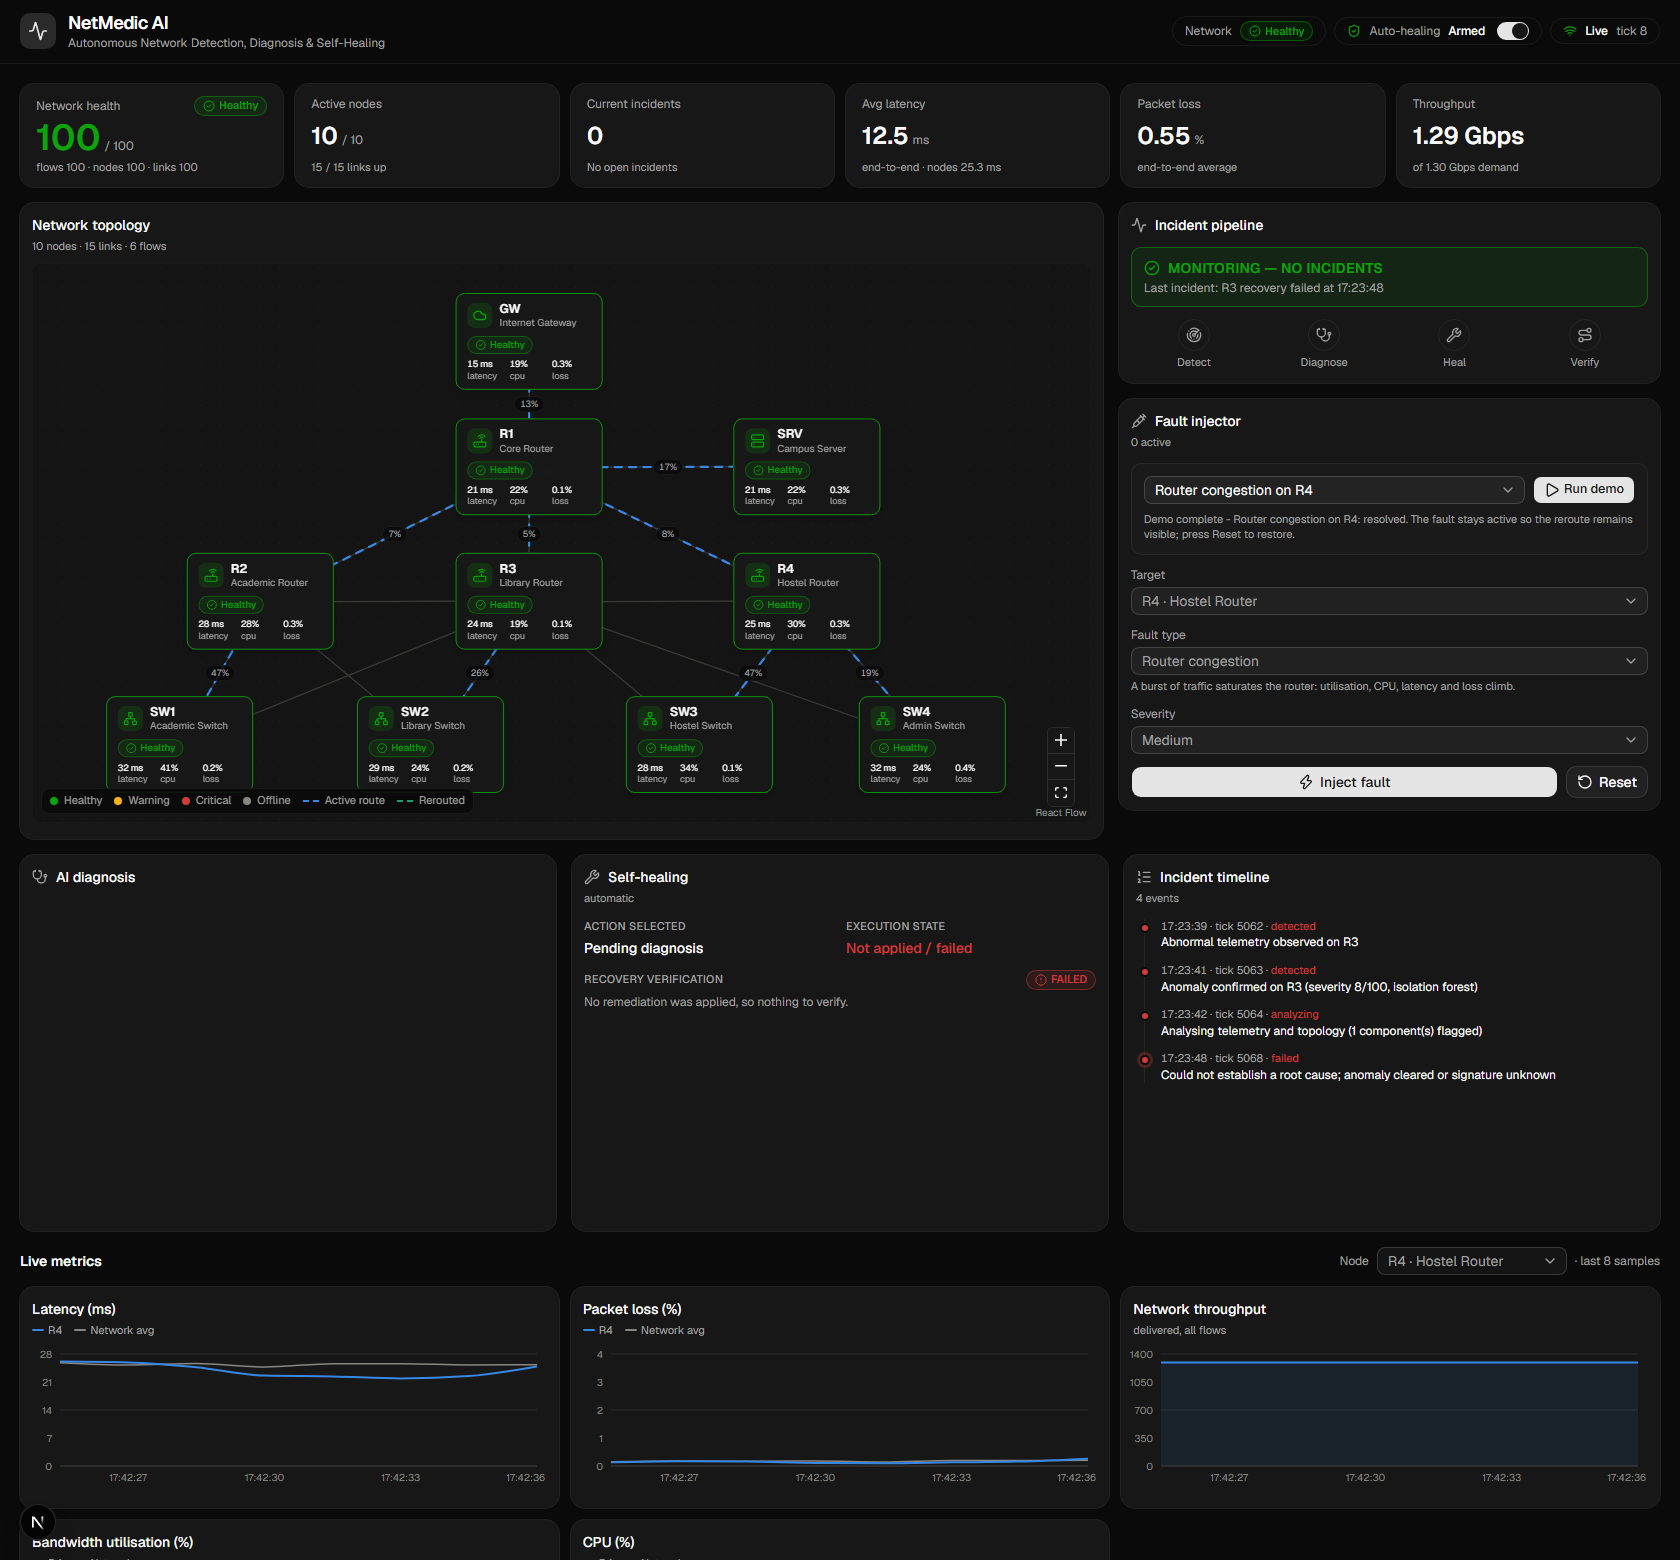
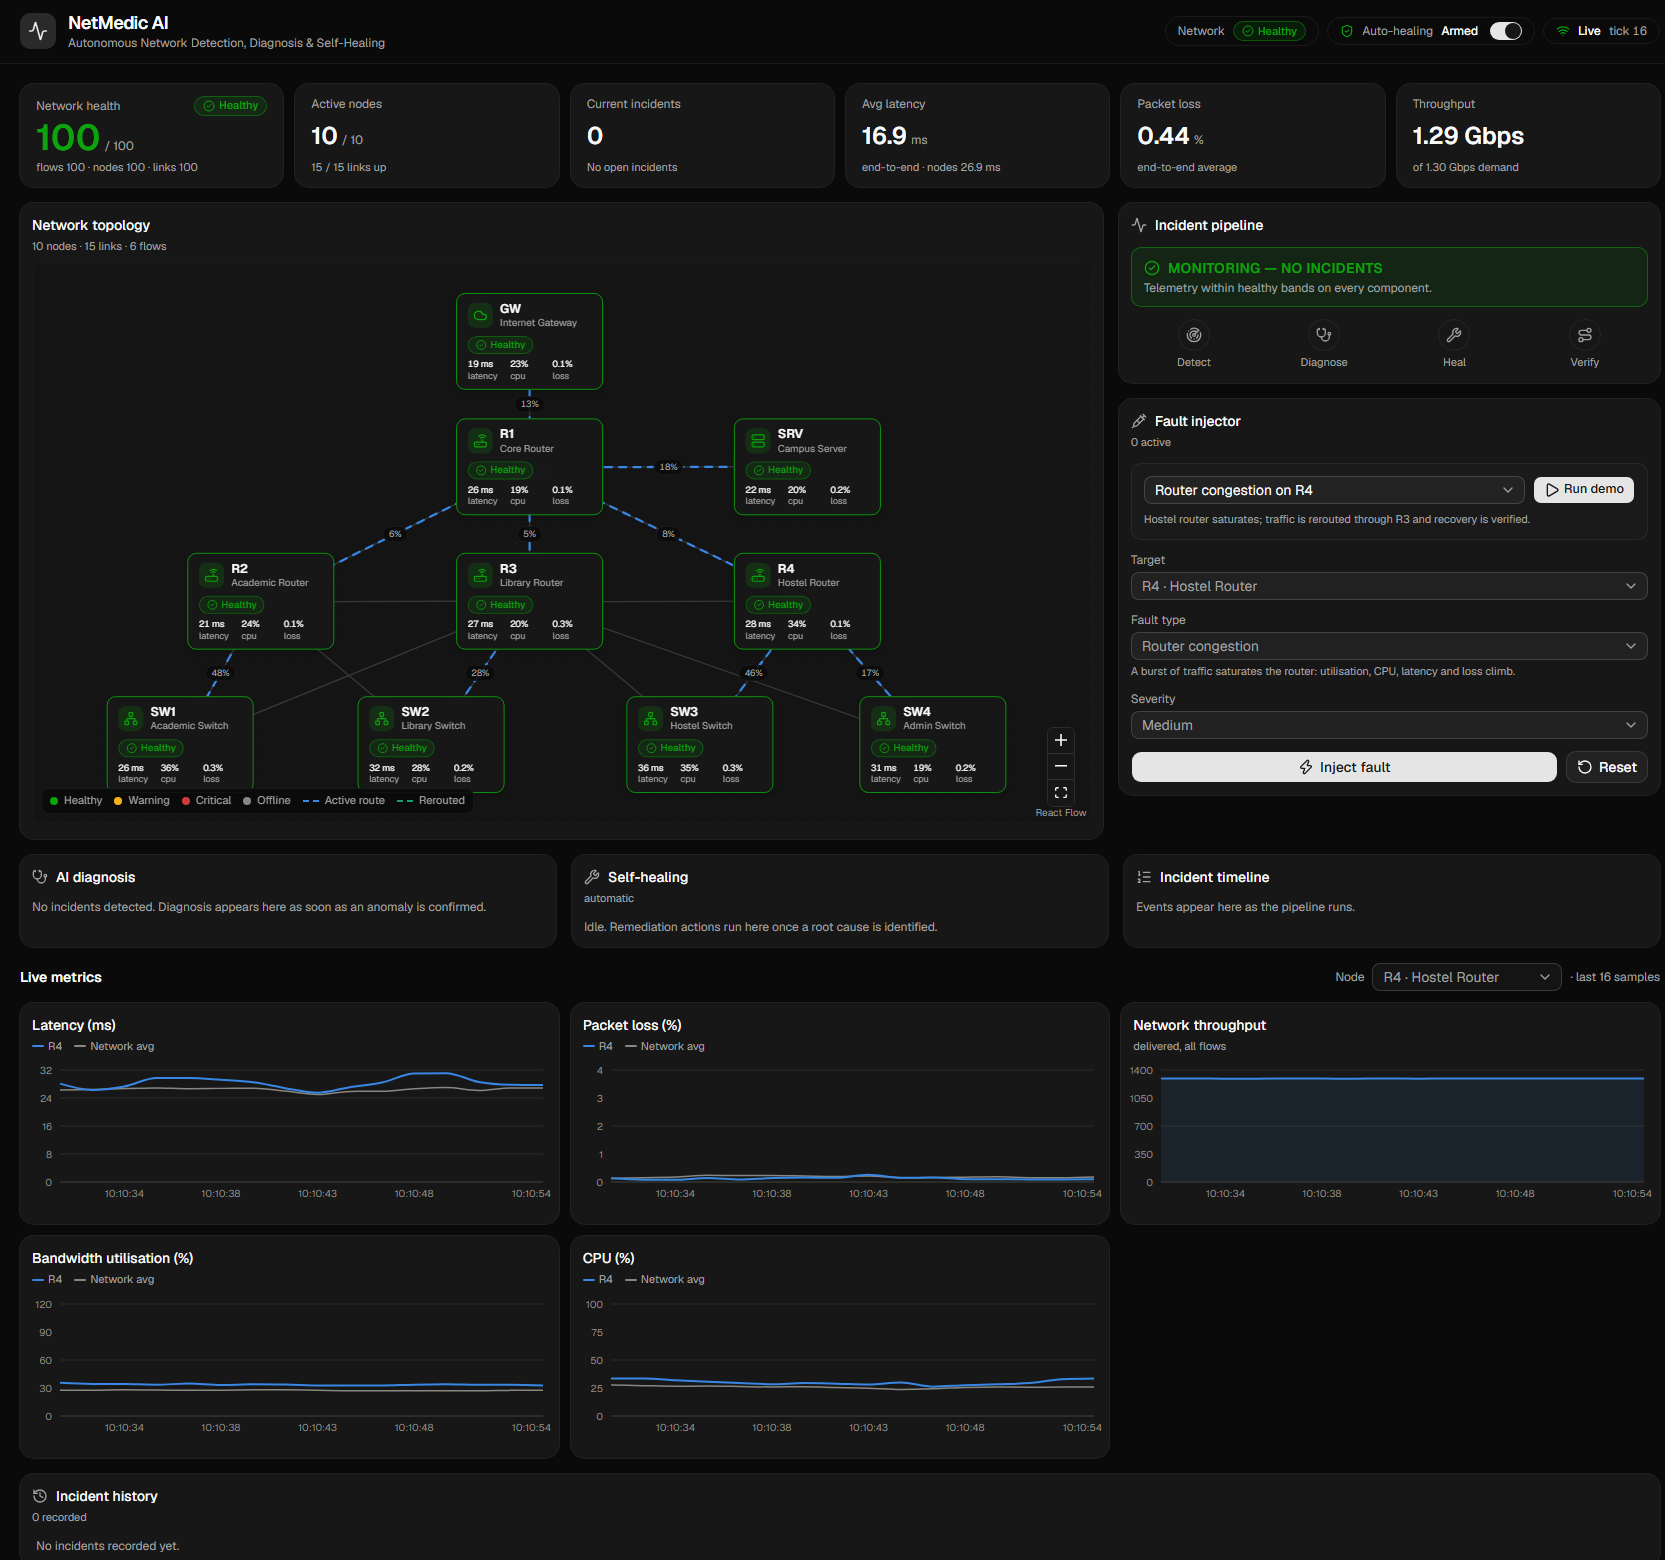
polish: accessibility, responsive verification, fresh screenshots, honest unclassified outcome
- Incident-history rows were mouse-only (<tr onClick> with no tabIndex or keyboard
  handler). Selection now lives on a real button with aria-pressed and a
  focus-visible ring; verified over CDP that Tab reaches it, :focus-visible
  matches and Enter toggles the selection
- Responsive pass at a 390 px emulated viewport: single column throughout and
  body scrollWidth == viewport (the wide incident table scrolls in its own
  container, the page never does)
- An anomaly the RCA cannot classify no longer marches through REMEDIATING to a
  red RECOVERY FAILED when no action was ever attempted: it stays in observation
  and closes as CANCELLED when the blip clears, or escalates only if it persists
- Screenshots refreshed - the previous set predated the demo control, the
  incident pipeline card and the diagnosis/healing panels

diff --git a/frontend/components/dashboard/incident-history.tsx b/frontend/components/dashboard/incident-history.tsx
@@ -64,10 +64,25 @@ export function IncidentHistory({
                   return (
                     <tr
                       key={i.id}
-                      className={`cursor-pointer border-b border-border/40 transition-colors hover:bg-muted/40 ${selected ? "bg-muted/50" : ""}`}
+                      className={`border-b border-border/40 transition-colors hover:bg-muted/40 has-focus-visible:bg-muted/50 ${selected ? "bg-muted/50" : ""}`}
                       onClick={() => onSelect(selected ? null : i.id)}
                     >
-                      <td className="px-4 py-1.5 tabular-nums">{formatTime(i.detected_at)}</td>
+                      {/* The row stays clickable for the mouse, but selection lives on a real
+                          button so it is reachable by keyboard and announced as pressed. */}
+                      <td className="px-4 py-1.5 tabular-nums">
+                        <button
+                          type="button"
+                          aria-pressed={selected}
+                          aria-label={`Review incident on ${i.component_id} detected at ${formatTime(i.detected_at)}`}
+                          className="cursor-pointer rounded-sm underline-offset-2 hover:underline focus-visible:ring-2 focus-visible:ring-ring focus-visible:outline-none"
+                          onClick={(event) => {
+                            event.stopPropagation();
+                            onSelect(selected ? null : i.id);
+                          }}
+                        >
+                          {formatTime(i.detected_at)}
+                        </button>
+                      </td>
                       <td className="px-2 py-1.5 font-medium">{i.component_id}</td>
                       <td className="px-2 py-1.5">{i.root_cause_label ?? "—"}</td>
                       <td className="px-2 py-1.5 tabular-nums">{i.confidence === null ? "—" : `${Math.round(i.confidence * 100)}%`}</td>

diff --git a/backend/tests/test_healing.py b/backend/tests/test_healing.py
@@ -228,3 +228,53 @@ def test_engine_listeners_are_not_duplicated(engine):
     engine.unsubscribe(listener)
     asyncio.run(engine.publish())
     assert len(calls) == 1
+
+
+def test_unclassified_anomaly_closes_as_transient_not_failed(engine):
+    """Detector noise the RCA cannot classify must not surface as RECOVERY FAILED:
+    nothing was attempted, so it closes as CANCELLED once the blip clears."""
+    from datetime import datetime, timezone
+
+    from app.models.detection import ComponentAnomaly, ComponentKind, DetectionResult
+    from app.models.diagnosis import ROOT_CAUSE_LABEL, Diagnosis, RemediationPlan, RiskLevel, RootCause
+    from app.models.diagnosis import ActionType as A
+
+    engine.reset()
+    for _ in range(3):
+        engine.tick()
+    manager = engine.incidents
+    snapshot = engine.latest
+    now = datetime.now(timezone.utc)
+
+    def detection(ticks: int) -> DetectionResult:
+        return DetectionResult(
+            tick=engine.tick_count, timestamp=now,
+            anomalies=[ComponentAnomaly(
+                component_id="R3", component_kind=ComponentKind.NODE, method="isolation_forest",
+                decision_score=-0.05, severity=57.0, is_anomaly=True, confirmed=True, consecutive_ticks=ticks)],
+            node_scores={"R3": 57.0}, confirmed_ids=["R3"],
+        )
+
+    unknown = Diagnosis(
+        tick=engine.tick_count, timestamp=now, root_cause=RootCause.UNKNOWN,
+        root_cause_label=ROOT_CAUSE_LABEL[RootCause.UNKNOWN], target_id="R3",
+        target_kind=ComponentKind.NODE, confidence=0.17, confidence_explanation="below threshold",
+        evidence=["unclear"], affected_flows=[], affected_components=["R3"], hypotheses=[],
+        anomaly_severity=57.0,
+        plan=RemediationPlan(action=A.MONITOR, target_id="R3", target_kind=ComponentKind.NODE,
+                             summary="Keep monitoring R3", rationale="signature unclear",
+                             risk=RiskLevel.LOW, expected_outcome="no change"),
+    )
+
+    manager.process(engine.tick_count, snapshot, detection(2), unknown)
+    assert manager.active is not None
+    manager.process(engine.tick_count + 1, snapshot, detection(3), unknown)
+    # Still observing - never promoted to a remediation it cannot perform.
+    assert manager.active.status == IncidentStatus.ANALYZING
+    assert not manager.active.actions
+
+    empty = DetectionResult(tick=engine.tick_count, timestamp=now, anomalies=[], node_scores={}, confirmed_ids=[])
+    for t in range(2, 9):
+        manager.process(engine.tick_count + t, snapshot, empty, None)
+    assert manager.active is None
+    assert engine.incidents.closed[0].status == IncidentStatus.CANCELLED

diff --git a/backend/app/incidents/manager.py b/backend/app/incidents/manager.py
@@ -16,7 +16,7 @@ from app.healing.engine import HealingEngine
 from app.healing.verifier import SETTLE_TICKS, WINDOW_TICKS, summarise_window, verify
 from app.logging_config import get_logger
 from app.models.detection import ComponentKind, DetectionResult
-from app.models.diagnosis import ActionType, Diagnosis
+from app.models.diagnosis import ActionType, Diagnosis, RootCause
 from app.models.incident import (
     STATUS_LABEL,
     HealingActionRecord,
@@ -193,7 +193,11 @@ class IncidentManager:
             self._transition(incident, IncidentStatus.ANALYZING, tick, f"Analysing telemetry and topology ({flagged} component(s) flagged)")
 
         elif status == IncidentStatus.ANALYZING:
-            if diagnosis is not None:
+            # An UNKNOWN cause means the scoring engine declined to commit, so there is no
+            # action to take. Keep observing instead of marching it through REMEDIATING to
+            # a red FAILED: detector noise should close as CANCELLED when it clears, and
+            # only a *persisting* unclassified anomaly is worth escalating.
+            if diagnosis is not None and diagnosis.root_cause != RootCause.UNKNOWN:
                 self._apply_diagnosis(incident, diagnosis, tick)
             elif tick - self._stage_tick >= DIAGNOSIS_TIMEOUT_TICKS:
                 still_flagged = any(a.component_id == incident.component_id for a in detection.anomalies)

diff --git a/CONTEXT.md b/CONTEXT.md
@@ -26,6 +26,7 @@
 - **WebSocket:** `/ws/network` pushes the full state message every tick: `{type, tick, topology, telemetry, faults, detection, diagnosis, incident, incidents, quarantined, auto_heal, demo}`.
 - **Backend address resolution (frontend):** nothing host-specific is baked into the bundle. `frontend/lib/config.ts` resolves once per page load: build-time `NEXT_PUBLIC_*` override → runtime `GET /api/config` (Next route handler reading `NETMEDIC_BACKEND_PORT` / `NETMEDIC_API_BASE_URL` / `NETMEDIC_WS_URL` from the frontend server's env) → derive from `window.location` + port 8000. Resolution is **per tier**: an explicit WS URL wins only when it sits in the same or a more specific tier than the chosen API base, so an API override can never leave the stream pointing elsewhere. Malformed URLs/ports are rejected with a `console.warn` and fall through (a bad value must never throw inside `new WebSocket`, which would wedge the socket — its only retry path is `onclose`). Successful lookups cache for the page; failures retry after a 2 s TTL. `/api/config` uses a 3 s `AbortSignal.timeout`. Compose passes `NETMEDIC_BACKEND_PORT=${BACKEND_PORT}` at runtime, so port changes need no rebuild.
 - **Dev-server origins:** `next dev` serves dev assets only to the hostname it was started with, so opening the dashboard at `127.0.0.1` or a LAN address rendered the HTML but never hydrated (no effects, no WebSocket, silent). `frontend/next.config.ts` sets `allowedDevOrigins` for loopback/private hosts. `next start` and the Docker image are unaffected.
+- **Accessibility / responsive:** verified at a 390 px emulated viewport — single column, `document.body.scrollWidth === viewport` (wide content scrolls inside its own container, never the page). Incident-history rows carry a real focusable button (`aria-pressed`, focus-visible ring) because a bare `<tr onClick>` was mouse-only; verified over CDP that Tab reaches it, `:focus-visible` matches, and Enter toggles selection.
 - **Settings plumbing:** `create_app(settings)` installs them process-wide via `config.configure_settings()`, so the engine and AI provider resolved afterwards agree with the app (an already-built `get_engine()` singleton keeps its own — documented). `SimulationEngine.subscribe` is idempotent and `unsubscribe` runs on shutdown, so repeated app startups cannot stack duplicate WebSocket broadcasters.
 - **Origin policy:** the API has no authentication, so any allowed origin can also drive the simulation. `Settings.is_allowed_origin` is the single rule, used by the CORS middleware *and* by the `/ws/network` handshake (a WS handshake skips the CORS preflight, and the stream carries more than any REST route; a missing Origin = non-browser client, allowed). Backend default is loopback-only; compose adds a private/`.local`-host regex scoped to `FRONTEND_PORT`. Never widen to `https?://[^/]+:<port>`.
 
@@ -64,9 +65,9 @@ All phases 0–12 implemented and verified, including the Docker stack (both ima
 
 ## Next Tasks
 
-1. Optional: obtain Qualcomm Cloud AI Playground credentials from the team, set `NETMEDIC_AI_PROVIDER=qualcomm` + `QUALCOMM_AI_*`, confirm the request shape in `backend/app/ai/qualcomm.py` against the real API.
-2. Optional polish: mobile layout pass, keyboard focus states, README screenshot refresh after any UI change.
-3. Optional: rehearse with `docs/demo-script.md`; consider recording a GIF for the README.
+1. **Blocked on you:** Qualcomm Cloud AI Playground credentials — set `NETMEDIC_AI_PROVIDER=qualcomm` + `QUALCOMM_AI_*` and confirm the request shape in `backend/app/ai/qualcomm.py` against the real API.
+2. **Blocked on Docker:** rebuild/verify the compose stack (Docker Desktop has been down since 2026-09-21; compose is validated statically via `docker compose config` only).
+3. Optional: record a GIF of the demo for the README; rehearse with `docs/demo-script.md`.
 
 ## Important Technical Decisions
 
@@ -126,7 +127,7 @@ Components in `frontend/components/dashboard/`: `dashboard.tsx` (layout + incide
 
 ## Testing
 
-`cd backend && pytest` — 101 tests, deterministic (`NETMEDIC_RANDOM_SEED` pinned in `conftest.py`; the engine's telemetry RNG was previously unseeded, making the "no false positives" assertion a dice roll): origin policy (exact, regex fullmatch, private-host pattern, credentials never echoed, WS handshake accept/reject), settings propagation, listener dedup, routing, telemetry, health score, faults (+API), detection (+API), RCA (+API), healing/verification/incidents (+API), AI providers (mock + mocked-HTTP Qualcomm), database round-trip, demo mode, WebSocket. Full suite ≈12 s (first run trains the model). Frontend: `npm run lint`, `npx tsc --noEmit`, `npm run build` all clean.
+`cd backend && pytest` — 102 tests, deterministic (`NETMEDIC_RANDOM_SEED` pinned in `conftest.py`; the engine's telemetry RNG was previously unseeded, making the "no false positives" assertion a dice roll): origin policy (exact, regex fullmatch, private-host pattern, credentials never echoed, WS handshake accept/reject), settings propagation, listener dedup, routing, telemetry, health score, faults (+API), detection (+API), RCA (+API), healing/verification/incidents (+API), AI providers (mock + mocked-HTTP Qualcomm), database round-trip, demo mode, WebSocket. Full suite ≈12 s (first run trains the model). Frontend: `npm run lint`, `npx tsc --noEmit`, `npm run build` all clean.
 
 ## Environment Variables
 
@@ -170,5 +171,5 @@ See `docs/demo-script.md`. Short version: backend + frontend running → dashboa
 ## Last Major Change
 
 - **Date:** 2026-09-21
-- **Description:** Applied all nine findings of the third review (high) on top of the fifteen: settings now reach components resolved after `create_app`, idempotent engine listeners, restored the credentials assertion, dev origins aligned with the backend CORS ranges (172.16-31), symmetric WS/API tier pairing, real retrying panel loads (`use-backend-resource`), honest WS close-code test, dead export removed. Also fixed pre-existing suite flakiness by seeding the telemetry RNG. Previously: all fifteen findings of the second xhigh review (runtime-URL commit) — URL-API resolution with per-tier pairing, validated ports/URLs, abortable `/api/config` with negative-TTL caching, socket throw-guard and per-run backoff, connection-aware panel loads, private-host CORS scoping, WebSocket Origin check, `create_app(settings)`. Also fixed a dev-only hydration block at non-localhost origins (`allowedDevOrigins`). Verified: 98 backend tests, live CORS/WS origin probes, prod build and dev mode both Live at 127.0.0.1. Previously: the ten findings of the first xhigh review of the Docker layer — runtime backend-URL resolution (`/api/config`), portable port overrides, loopback/LAN CORS, toolchain pin, compose/env/docs consistency. Verified: compose on 8010/3010 and then 8020/3020 without rebuild, dashboard via 127.0.0.1, local dev against port 8010.
+- **Description:** Finished the polish backlog: responsive + keyboard-accessibility pass, screenshots refreshed (they predated the demo control and incident panels), and an unclassified-anomaly incident now closes as CANCELLED instead of a misleading red FAILED when nothing was ever attempted. Previously: all nine findings of the third review (high) on top of the fifteen: settings now reach components resolved after `create_app`, idempotent engine listeners, restored the credentials assertion, dev origins aligned with the backend CORS ranges (172.16-31), symmetric WS/API tier pairing, real retrying panel loads (`use-backend-resource`), honest WS close-code test, dead export removed. Also fixed pre-existing suite flakiness by seeding the telemetry RNG. Previously: all fifteen findings of the second xhigh review (runtime-URL commit) — URL-API resolution with per-tier pairing, validated ports/URLs, abortable `/api/config` with negative-TTL caching, socket throw-guard and per-run backoff, connection-aware panel loads, private-host CORS scoping, WebSocket Origin check, `create_app(settings)`. Also fixed a dev-only hydration block at non-localhost origins (`allowedDevOrigins`). Verified: 98 backend tests, live CORS/WS origin probes, prod build and dev mode both Live at 127.0.0.1. Previously: the ten findings of the first xhigh review of the Docker layer — runtime backend-URL resolution (`/api/config`), portable port overrides, loopback/LAN CORS, toolchain pin, compose/env/docs consistency. Verified: compose on 8010/3010 and then 8020/3020 without rebuild, dashboard via 127.0.0.1, local dev against port 8010.
 - **Commit:** e6baadb
